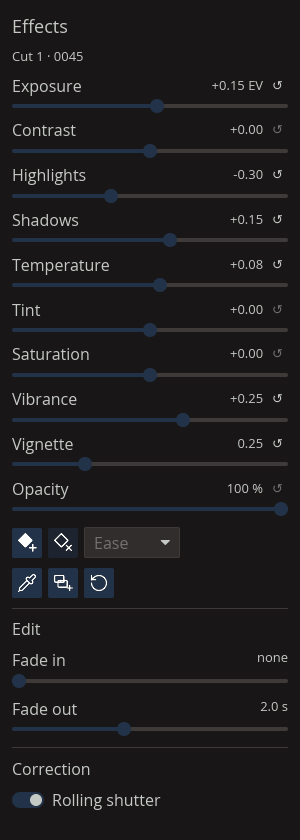
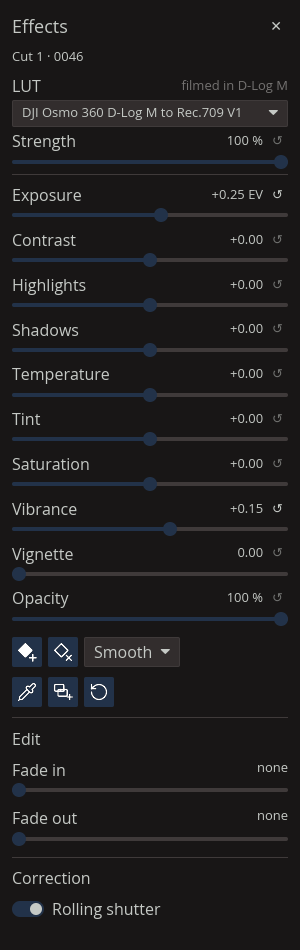
Retake the Effects and Settings panel screenshots with the LUT sections
The Effects panel now shows its ✕, a D-Log M cut's LUT picker on DJI's
Osmo 360 D-Log M to Rec.709 LUT and its Strength; the Settings panel
the LUT library and the LUT for D-Log M clips. Shot from 0046's end at
16.3 s (yaw 32, pitch −18, fov 72), where only the dogs are in view,
fullscreen as before, in Kanagawa Dragon with 10-bit and Auto keyframe
off; the user's settings restored after.

Changed region(s): [[0.03, 0.0, 0.96, 0.9905], [0.9, 0.0, 0.93, 0.031]]

diff --git a/CLAUDE.md b/CLAUDE.md
@@ -157,7 +157,7 @@ Not done yet, roughly in priority order:
    - `lut.rs`: `.cube` reading (3D, `DOMAIN_MIN/MAX`, 1D refused), trilinear `apply`/`blend` (matches ffmpeg's `lut3d` trilinear within 1 level), `shared`/`get` (loaded once a run, `Applied { id, strength }` on `view::Camera::lut`, so Camera stays `Copy`), the library `<config>/luts/<name>.cube` (`library_names`, `add_to_library` checks then copies, `remove_from_library`), `find` (a value ending `.cube` is a file, made absolute on load and relative on save like clips; else a library name).
    - Project: `Cut::lut` and `lut_applied` (`resolve_lut`, by `cut_pipelines` and the player's `mark_flat`; missing: a warning, shown as filmed). The strength is an effect (`Grade::lut`, JSON `"lut"` in effect keyframes, 0..1, left out at 1; `effects::LUT`, the eleventh value, its slider beside the picker) so it eases like the others (user, 2026-10-15: "the most logical"; it was a per-cut `lut_strength` at first). A linear 0 → 1 over 0046's 3-4 s measured 1/24/50/73/95% of the way to the full LUT; GPU vs CPU 39.6 dB.
    - Clips export with Graded off leaves the LUT out with the effects (D-Log M stays log for the other editor's own LUT), as planned.
-   - Docs (2026-10-15): the guide's chapter 10 has "LUTs and D-Log M" (adding DJI's LUT, the automatic choice, the picker and keyframed strength, missing LUTs, 10-bit not needed), Exposure's roll-off, the ✕; Settings → LUTs, Graded, two tips, `info`'s colour; the README's features, player table, project format (`lut` on a cut and in effects; the example has a D-Log M cut fading its LUT in, checked to parse), roadmap. The effects-panel.png and settings-panel.png screenshots predate the LUT sections: retake them (person-free, so not 0046).
+   - Docs (2026-10-15): the guide's chapter 10 has "LUTs and D-Log M" (adding DJI's LUT, the automatic choice, the picker and keyframed strength, missing LUTs, 10-bit not needed), Exposure's roll-off, the ✕; Settings → LUTs, Graded, two tips, `info`'s colour; the README's features, player table, project format (`lut` on a cut and in effects; the example has a D-Log M cut fading its LUT in, checked to parse), roadmap. effects-panel.png and settings-panel.png retaken with the LUT sections (0046 at 16.3 s, yaw 32 pitch −18 fov 72: only the dogs; the user allows 0046's end, "there are some dogs").
    - No "Saved …" status after saving a project or a photo (user, 2026-10-15: "just annoying"); the title's unsaved mark shows it.
    - GPU: a 3D `Rgba16Float` texture per layer (binding 12, uploaded when the LUT changes, f16 by `to_half`), uniforms `lut` (on, strength, size; domain), the shader's `apply_lut` at the start of `finish` (before the grade). CPU: `grade_frame` takes the camera, LUT then grade. `render::tests::gpu_lut_matches_the_cpu` (a bent, channel-mixing 17³ LUT at 70%: identical). 0046 exported GPU vs CPU 38.9 dB with it (39.9 without).
    - Player: Settings → LUTs (the library, Add LUT…, ✕, "For D-Log M clips", `settings.json` `dlog_m_lut`); adding a LUT whose name says D-Log M with none chosen makes it the D-Log M one and gives it to D-Log M cuts without a LUT (one undo step); `add_cut` gives new D-Log M clips it (`auto_lut`). Effects panel, for a cut: LUT picker ("filmed in D-Log M" beside it) and Strength (one undo step a drag). Status messages no longer wrap (a long one stood the top bar on end). Driven in the Linux player: add, auto-apply, strength 49% and undo all work.

diff --git a/docs/user-guide.md b/docs/user-guide.md
@@ -337,7 +337,7 @@ The level runs in a straight line between points, and stays at the first and las
 
 Click **Effects** (three sliders) in the transport row, or press **G**, to open the Effects panel beside the view. It shows the effects of the cut under the playhead, or of the selected title or overlay while it's showing (see [Titles and overlays](#11-titles-and-overlays)).
 
-![The Effects panel for cut 1: sliders for Exposure (+0.15 EV), Contrast, Highlights (−0.30), Shadows (+0.15), Temperature (+0.08), Tint, Saturation, Vibrance (+0.25), Vignette (0.25) and Opacity (100 %), each with its value and a reset arrow; below them the add-keyframe and delete-keyframe icons, the Ease picker, white balance, to all cuts and reset; the edit's Fade in and Fade out; and Correction, with the Rolling shutter switch](guide/effects-panel.png)
+![The Effects panel for cut 1, a clip filmed in D-Log M, with a ✕ at the top to close it: the LUT picker on DJI Osmo 360 D-Log M to Rec.709 V1 with its Strength at 100 %; sliders for Exposure (+0.25 EV), Contrast, Highlights, Shadows, Temperature, Tint, Saturation, Vibrance (+0.15), Vignette and Opacity (100 %), each with its value and a reset arrow; below them the add-keyframe and delete-keyframe icons, the Ease picker, white balance, to all cuts and reset; the edit's Fade in and Fade out; and Correction, with the Rolling shutter switch](guide/effects-panel.png)
 
 | Effect | What it does |
 |---|---|
@@ -488,7 +488,7 @@ Both are rendered from fresh full-resolution frames, which takes a few seconds.
 
 Click the **cog** at the far left of the top bar, or press **Ctrl+,**, for the **Settings panel** at the left of the view. Everything in it is remembered between runs.
 
-![The Settings panel: Look, with the theme picker on Kanagawa Dragon; Decoding, with the 10-bit switch; Keyframes, with the Auto keyframe switch; each with a short note](guide/settings-panel.png)
+![The Settings panel: Look, with the theme picker on Kanagawa Dragon; Decoding, with the 10-bit switch; LUTs, with DJI Osmo 360 D-Log M to Rec.709 V1 in the library, the Add LUT… button and the LUT for D-Log M clips; Keyframes, with the Auto keyframe switch; each with a short note](guide/settings-panel.png)
 
 - **Look**: the colour theme. rOsmo360 starts in **Kanagawa Dragon**, a dark theme that keeps the picture in front; the list has light and dark themes such as Nord, Dracula, Gruvbox, Catppuccin and Tokyo Night, and the change shows at once.
 - **Decoding → 10-bit**: decodes the Osmo's `.OSV` and other 10-bit video (a phone's HDR) with all its 10 bits instead of 8. Skies and smooth gradients stay smoother, most of all after strong grading, in the player's full-resolution frames and in exports. It moves twice the data, so a full-resolution export takes about a third longer on a PC; playing from the `.LRF` proxy isn't affected. Off by default; it applies from the next seek or clip.
